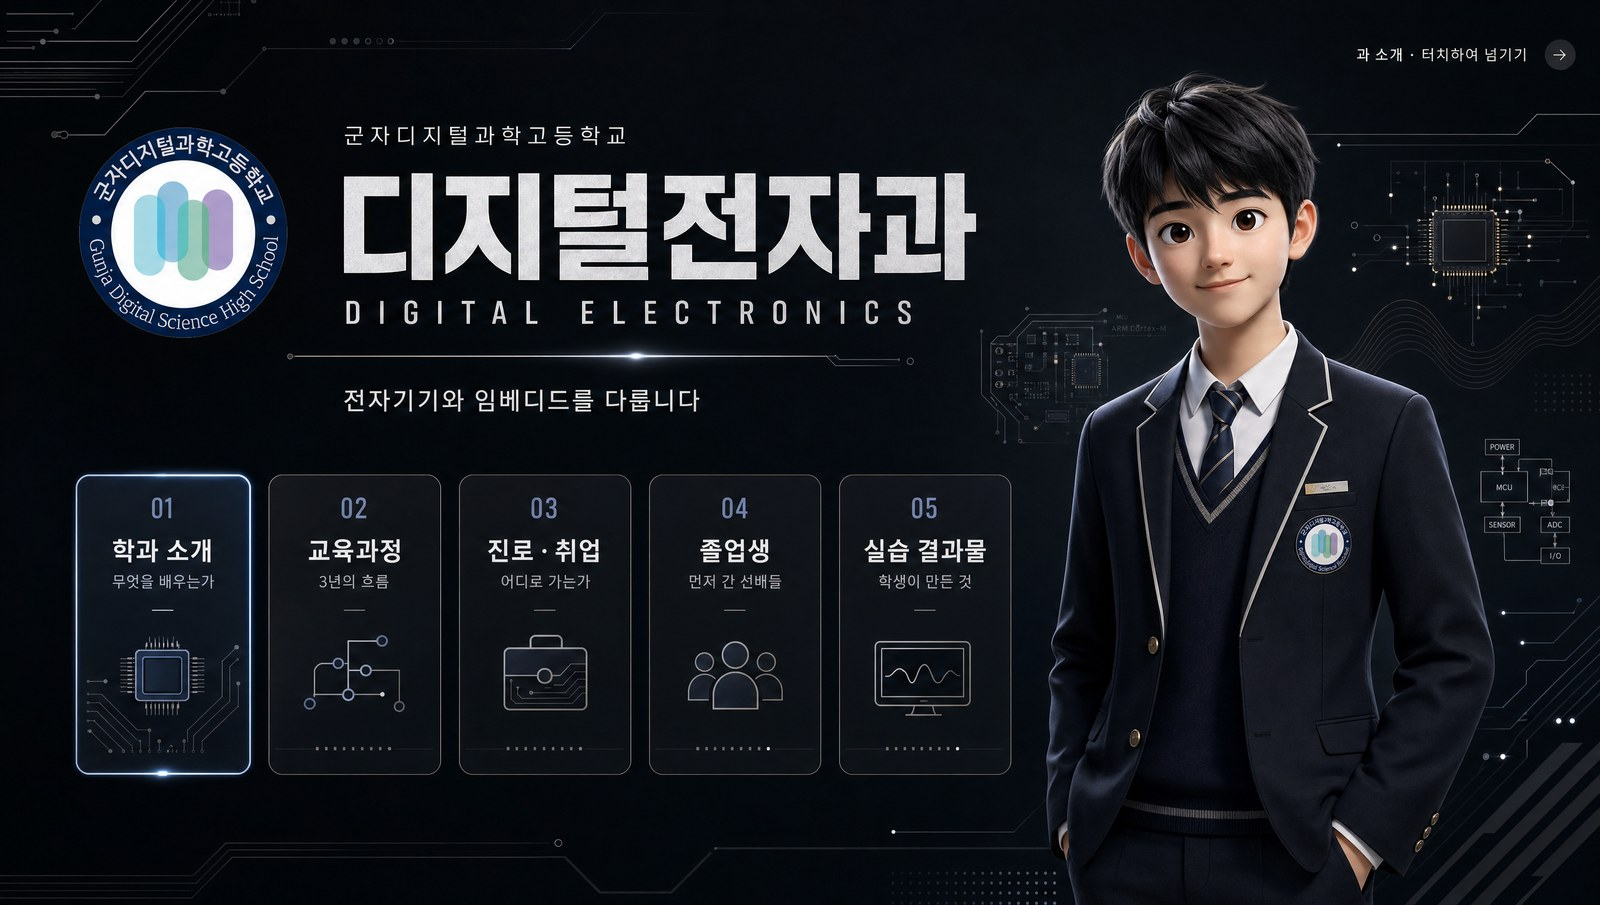
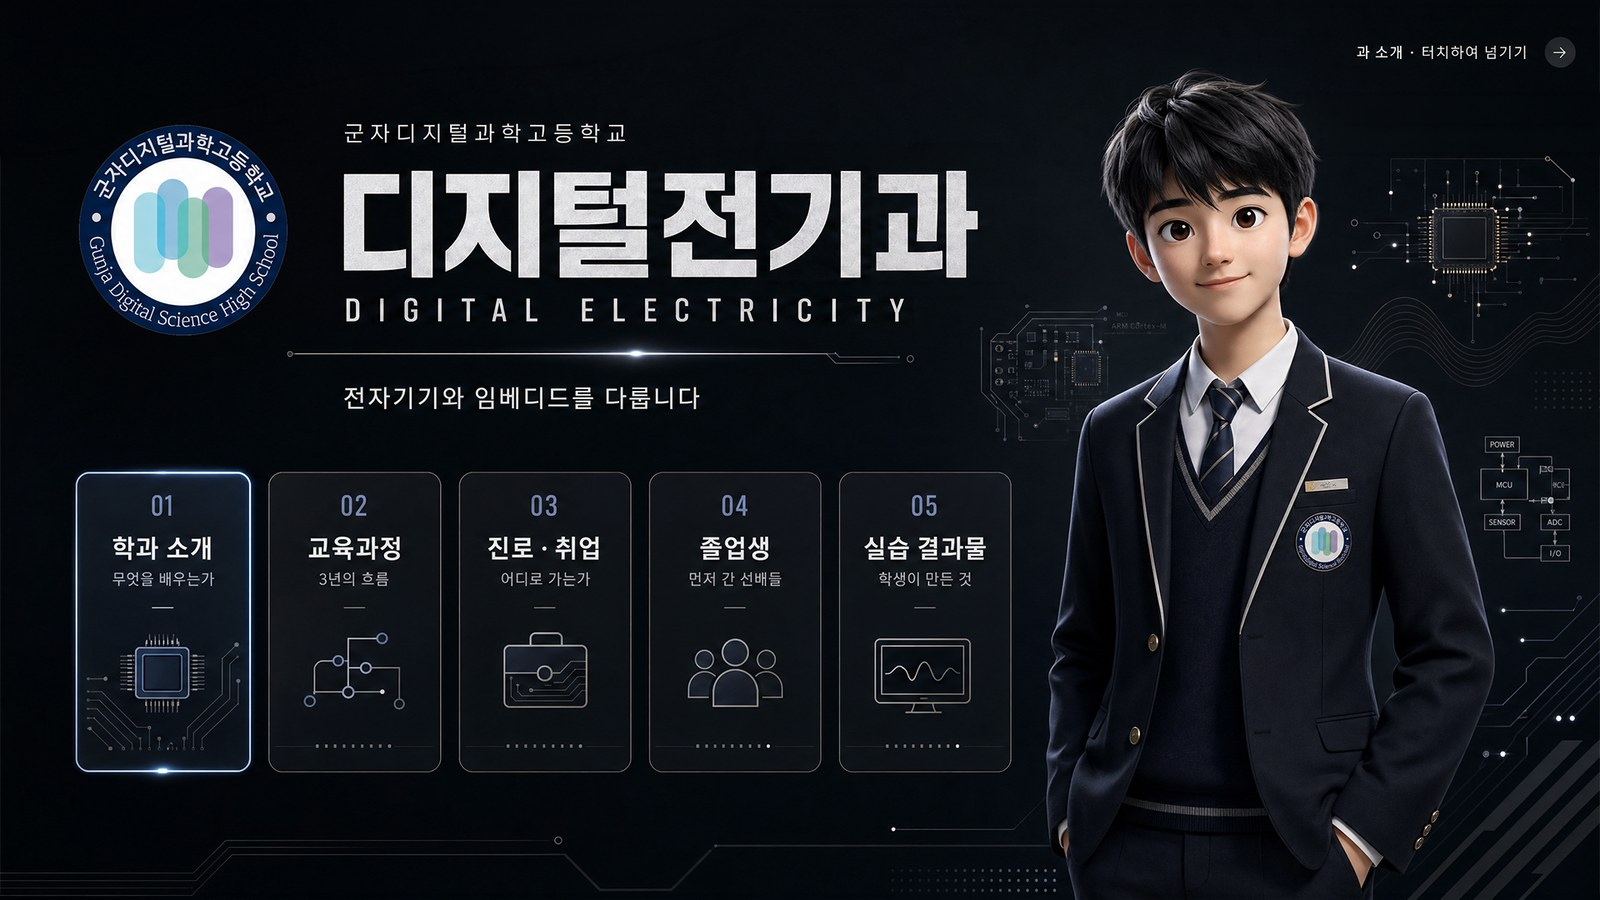
복도 천장 정리 · 부스 시안 A 교체
05p 복도
- 콘 꼭짓점 원과 우상단 제원 태그를 걷어냈다. 치수는 앞 두 장이 이미 말하고,
  이 슬라이드는 실제로 보이는 모습만 남기는 편이 낫다
- 형광등을 좌우 2열(±0.75m)로 벌렸다. 콘은 천장에서 바닥까지 내려오는 삼각형이라
  복도 한가운데에 등을 두면 길이를 아무리 띄워도 깊이가 다른 콘의 몸통 위에
  얹혀 보인다. 중앙을 비우는 것이 유일한 해법이었다 — 콘 위치는 그대로다

06p 부스
- 시안 A 를 부스_tv_수정3 · 부스_태블릿_수정_3 으로 교체.
  A 도 디지털전기과가 되어 세로형 LED 와 학과가 맞는다(직전 A 는 전자과였다)

diff --git a/js/corridor.js b/js/corridor.js
@@ -177,16 +177,19 @@
   add('cw-end', CW, WHH, 'translate3d(0,' + YC + 'px,' + zOf(TL) + 'px)',
     '<span>구축 범위 끝 · 통심 ⑤<br /><i>16,200mm</i></span>', { z: zOf(TL) });
 
-  /* ---- 천장 : 형광등 · 프로젝터 매립 개구 · LiDAR ----
-     형광등은 프로젝터 개구 사이 빈칸의 정중앙에 둔다 — 좌표를 손으로 적어 두면
-     개구가 움직일 때마다 어긋나므로 pjA 에서 계산한다.
-     개구 반폭 52 · 등 반폭 75 · 개구 간격 414px → 틈 310px, 등 150 이 들어가고 80px 씩 남는다.
-     한 칸 걸러 하나씩만 놓아 등 간격을 828px(3.2m)로 — 매 칸이면 1.6m 라 너무 촘촘하다. */
+  /* ---- 천장 : 형광등 · LiDAR ----
+     길이 방향으로는 콘 사이 빈칸에 두지만, 그것만으로는 화면에서 안 떨어진다.
+     콘은 천장에서 바닥까지 내려오는 삼각형이라, 복도 한가운데에 등을 두면
+     깊이가 다른 콘의 몸통 위에 얹혀 보인다. 등을 좌우 2열로 벌려 중앙을 비운다
+     (±0.75m — 유효폭 2.5m 안, 콘 꼭짓점 폭 밖).
+     길이 좌표는 콘에서 계산한다 — 손으로 적어 두면 콘을 옮길 때마다 어긋난다. */
+  var FLX = 0.75 * PPM;
   var GAPS = [];
   for (var g = 0; g + 2 < pjA.length; g += 2) GAPS.push((pjA[g] + pjA[g + 1]) / 2);
-  var FLPOS = [A0 / 2].concat(GAPS);              // 계단실 구간에도 1등
+  var FLPOS = [A0 / 2].concat(GAPS);              // 계단실 구간에도 1조
   var flHtml = FLPOS.map(function (a) {
-    return '<i class="cw-fl" style="left:' + a + 'px"></i>';
+    return '<i class="cw-fl" style="left:' + a + 'px;top:calc(50% - ' + FLX + 'px)"></i>' +
+           '<i class="cw-fl" style="left:' + a + 'px;top:calc(50% + ' + FLX + 'px)"></i>';
   }).join('');
   var ldBody = LD.map(function (m) {
     return '<i class="cw-ld" style="left:' + (A0 + m * PPM) + 'px"></i>';
@@ -201,10 +204,8 @@
      복도를 정면으로 보는 시점이라 복도 축과 나란한 면은 날이 서서 안 보인다.
      폭 방향 면(카메라 정면)에 사다리꼴로 세워 빛줄기처럼 읽히게 한다. */
   coneZ.forEach(function (cz) {
-    /* 꼭짓점의 작은 원이 렌즈 자리다. 콘의 clip-path 가 상단을 폭 45~55% 로 잘라
-       두었으므로(806px 중 80px) 그 안에 들어오는 크기여야 잘리지 않는다. */
-    add('cw-cone', 3.10 * PPM, WHH, 'translate3d(0,' + YC + 'px,' + cz + 'px)',
-      '<i class="cw-lens"></i>', { z: cz, cone: 1 });
+    add('cw-cone', 3.10 * PPM, WHH, 'translate3d(0,' + YC + 'px,' + cz + 'px)', '',
+      { z: cz, cone: 1 });
   });
 
   /* ---- 카메라 ---- */

diff --git a/index.html b/index.html
@@ -18,12 +18,12 @@
   <meta name="description" content="복도 바닥 프로젝션 · 대형 LED 미디어월 · 과 부스 5개소 — 콘텐츠 · 시스템 구축 계획." />
 
   <link rel="stylesheet" href="https://cdn.jsdelivr.net/gh/orioncactus/pretendard@v1.3.9/dist/web/static/pretendard.css" />
-  <link rel="stylesheet" href="css/tokens.css?v=20260821081000" />
-  <link rel="stylesheet" href="css/base.css?v=20260821081000" />
-  <link rel="stylesheet" href="css/slides.css?v=20260821081000" />
-  <link rel="stylesheet" href="css/storyboard.css?v=20260821081000" />
-  <link rel="stylesheet" href="css/proposal.css?v=20260821081000" />
-  <link rel="stylesheet" href="css/gunja.css?v=20260821081000" />
+  <link rel="stylesheet" href="css/tokens.css?v=20260821090000" />
+  <link rel="stylesheet" href="css/base.css?v=20260821090000" />
+  <link rel="stylesheet" href="css/slides.css?v=20260821090000" />
+  <link rel="stylesheet" href="css/storyboard.css?v=20260821090000" />
+  <link rel="stylesheet" href="css/proposal.css?v=20260821090000" />
+  <link rel="stylesheet" href="css/gunja.css?v=20260821090000" />
 </head>
 <body>
   <div id="boot"></div>
@@ -177,12 +177,8 @@
         <p class="cw-hint">마우스 휠로 복도를 앞뒤로 이동</p>
       </div>
 
-      <div class="cw-spec">
-        <b>16,200 × 2,500 × H 2,428</b> mm<br />
-        시점 — 계단실에서 동쪽<br />
-        좌 · 외벽 창 &nbsp;/&nbsp; 우 · 교실쪽 벽<br />
-        천장 · 프로젝터 매립 10 + LiDAR 3
-      </div>
+      <!-- 우상단 제원 태그(.cw-spec)는 걷어냈다 — 치수는 04p·05p 가 이미 말했고,
+           이 슬라이드는 "실제로 이렇게 보인다"만 남기는 편이 낫다. -->
 
       <div class="cw-wheel" aria-hidden="true"><i></i></div>
 
@@ -317,10 +313,10 @@
 
   <!-- tech.js · cue-console.js · album-tabs.js · storyboard.js 는 담당하던 슬라이드가
        빠지면서 붙일 곳이 없어졌다. 파일은 deck/js 에 남겨 두고 로드만 끊는다. -->
-  <script src="js/gallery-data.js?v=20260821081000"></script>
-  <script src="js/room3d.js?v=20260821081000"></script>
-  <script src="js/corridor.js?v=20260821081000"></script>
-  <script src="js/imw-hover.js?v=20260821081000"></script>
-  <script src="js/deck.js?v=20260821081000"></script>
+  <script src="js/gallery-data.js?v=20260821090000"></script>
+  <script src="js/room3d.js?v=20260821090000"></script>
+  <script src="js/corridor.js?v=20260821090000"></script>
+  <script src="js/imw-hover.js?v=20260821090000"></script>
+  <script src="js/deck.js?v=20260821090000"></script>
 </body>
 </html>

diff --git a/css/gunja.css b/css/gunja.css
@@ -468,11 +468,8 @@
 /* HUD */
 .cw-ui { position: absolute; left: 64px; top: 58px; z-index: 12; pointer-events: none; }
 .cw-hint { margin-top: 13px; font: var(--fw-regular) 15px/1.5 var(--font); color: var(--fg-dim); }
-/* 우상단 제원 태그 — 15px 에서 절반으로. 본문이 아니라 곁다리 정보라
-   눈에 먼저 들어오면 안 된다. 줄간은 좁아진 글자에 맞춰 조금 벌린다. */
-.cw-spec { position: absolute; right: 64px; top: 58px; z-index: 12; text-align: right;
-  font: var(--fw-regular) 7.5px/1.9 var(--font); color: var(--fg-dim); }
-.cw-spec b { color: var(--fg); font-weight: var(--fw-semibold); }
+/* 05p 우상단 제원 태그(.cw-spec)는 마크업에서 걷어냈다 — 치수는 앞 두 장이 이미 말한다.
+   06p 교실(.rm-spec)은 남아 있다. */
 .cw-pos { position: absolute; right: 64px; bottom: 58px; z-index: 12; text-align: right;
   font: var(--fw-regular) 14px/1.3 var(--font); color: var(--fg-dim); }
 .cw-pos b { display: block; font: var(--fw-bold) 44px/1 var(--font-num); color: var(--fg);
@@ -722,11 +719,6 @@
     rgba(var(--cone, 236,238,244), calc(.024 * var(--cone-a, 1))) 45%,
     rgba(var(--cone, 236,238,244), calc(.005 * var(--cone-a, 1)))); }
 .fx-cone .cw-cone { opacity: 1; }
-/* 콘 꼭짓점 = 렌즈 자리. clip-path 상단(폭 45~55%, 약 80px) 안에 들어오는 크기여야 한다. */
-.cw-lens { position: absolute; left: 50%; top: 0; width: 22px; height: 22px; margin-left: -11px;
-  border-radius: 50%; background: rgba(var(--cone, 236,238,244), .55);
-  box-shadow: 0 0 0 2px rgba(var(--cone, 236,238,244), .30),
-    0 0 16px 3px rgba(var(--cone, 236,238,244), .40); }
 
 /* 하단 컨트롤 — 2행 (콘텐츠 / 모드) */
 .cw-ctrl { position: absolute; left: 64px; bottom: 52px; z-index: 12;

diff --git a/js/room3d.js b/js/room3d.js
@@ -214,8 +214,8 @@
      자리표시자를 넣어 두고 apply() 가 현재 시안으로 풀어 쓴다. */
   var BOOTH_NOTE = '@shot';
   var SHOT_NOTE = {
-    A: '화면은 시안 A · 디지털전자과 — 실제로는 해당 과에 맞춰 교체됩니다',
-    B: '화면은 시안 B · 디지털전기과 — 실제로는 해당 과에 맞춰 교체됩니다'
+    A: '화면은 디지털전기과 시안 A — 실제로는 해당 과에 맞춰 교체됩니다',
+    B: '화면은 디지털전기과 시안 B — 실제로는 해당 과에 맞춰 교체됩니다'
   };
   var DOOR = { x: HW, z: -HL + 0.5 * BW };          // 미술실 입구(북측 벽 서쪽 끝)
   var EXIT = { x: HW, z: -HL + 10.5 * BW };         // 출구(북측 벽 동쪽)
